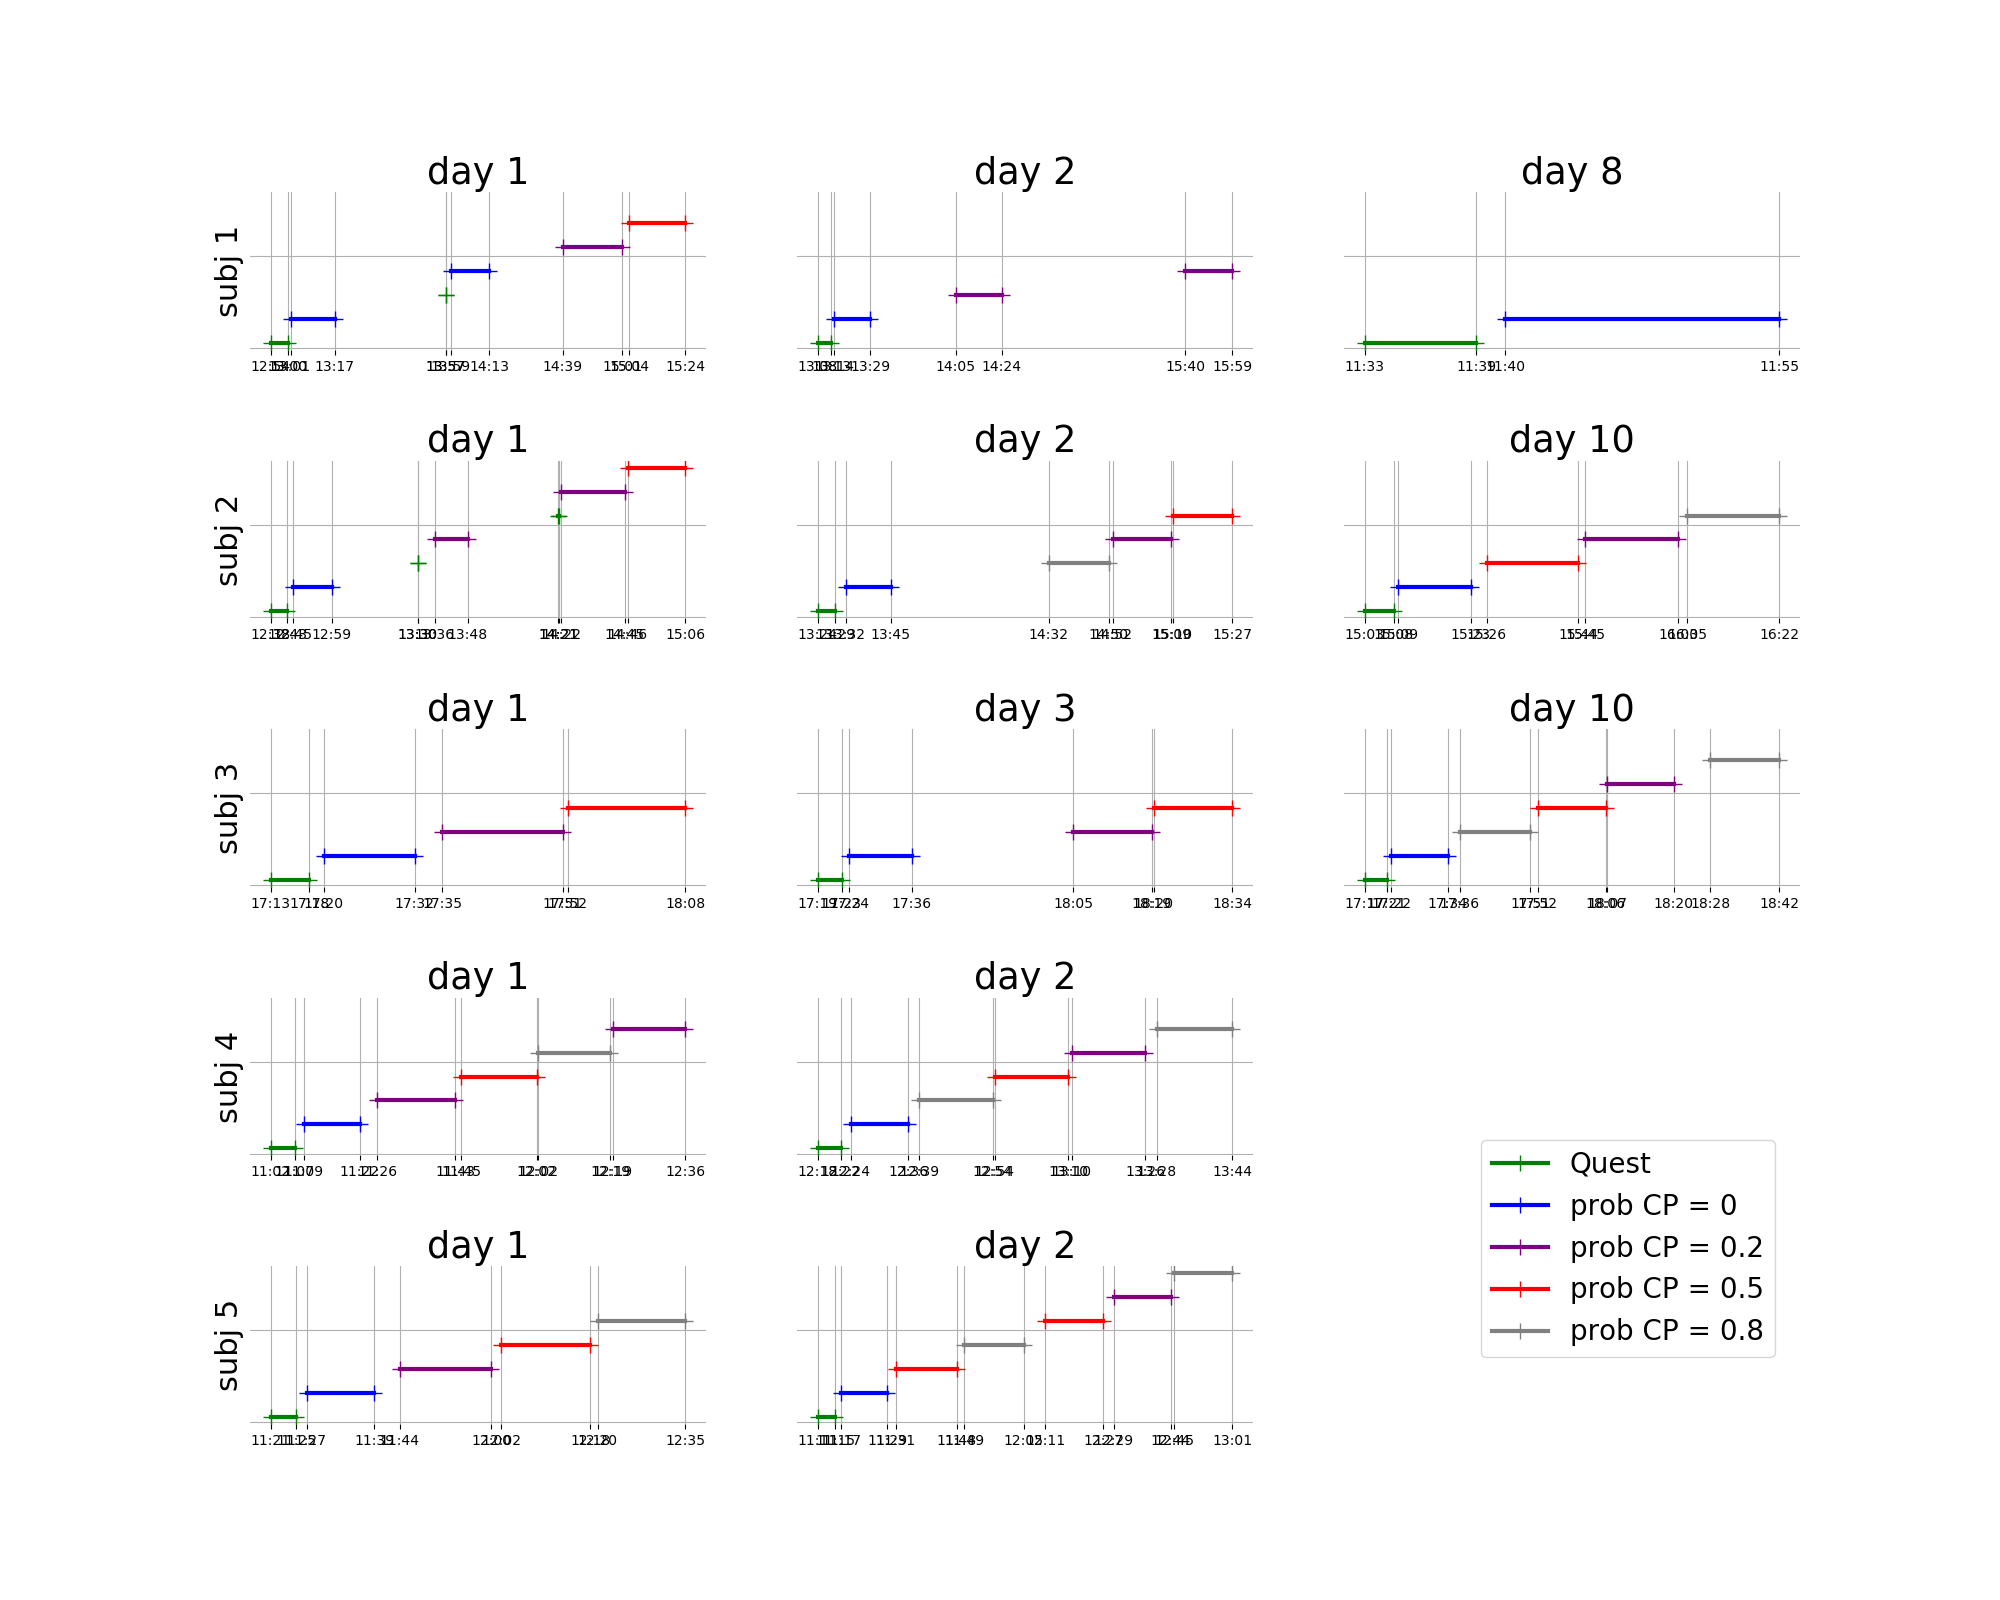
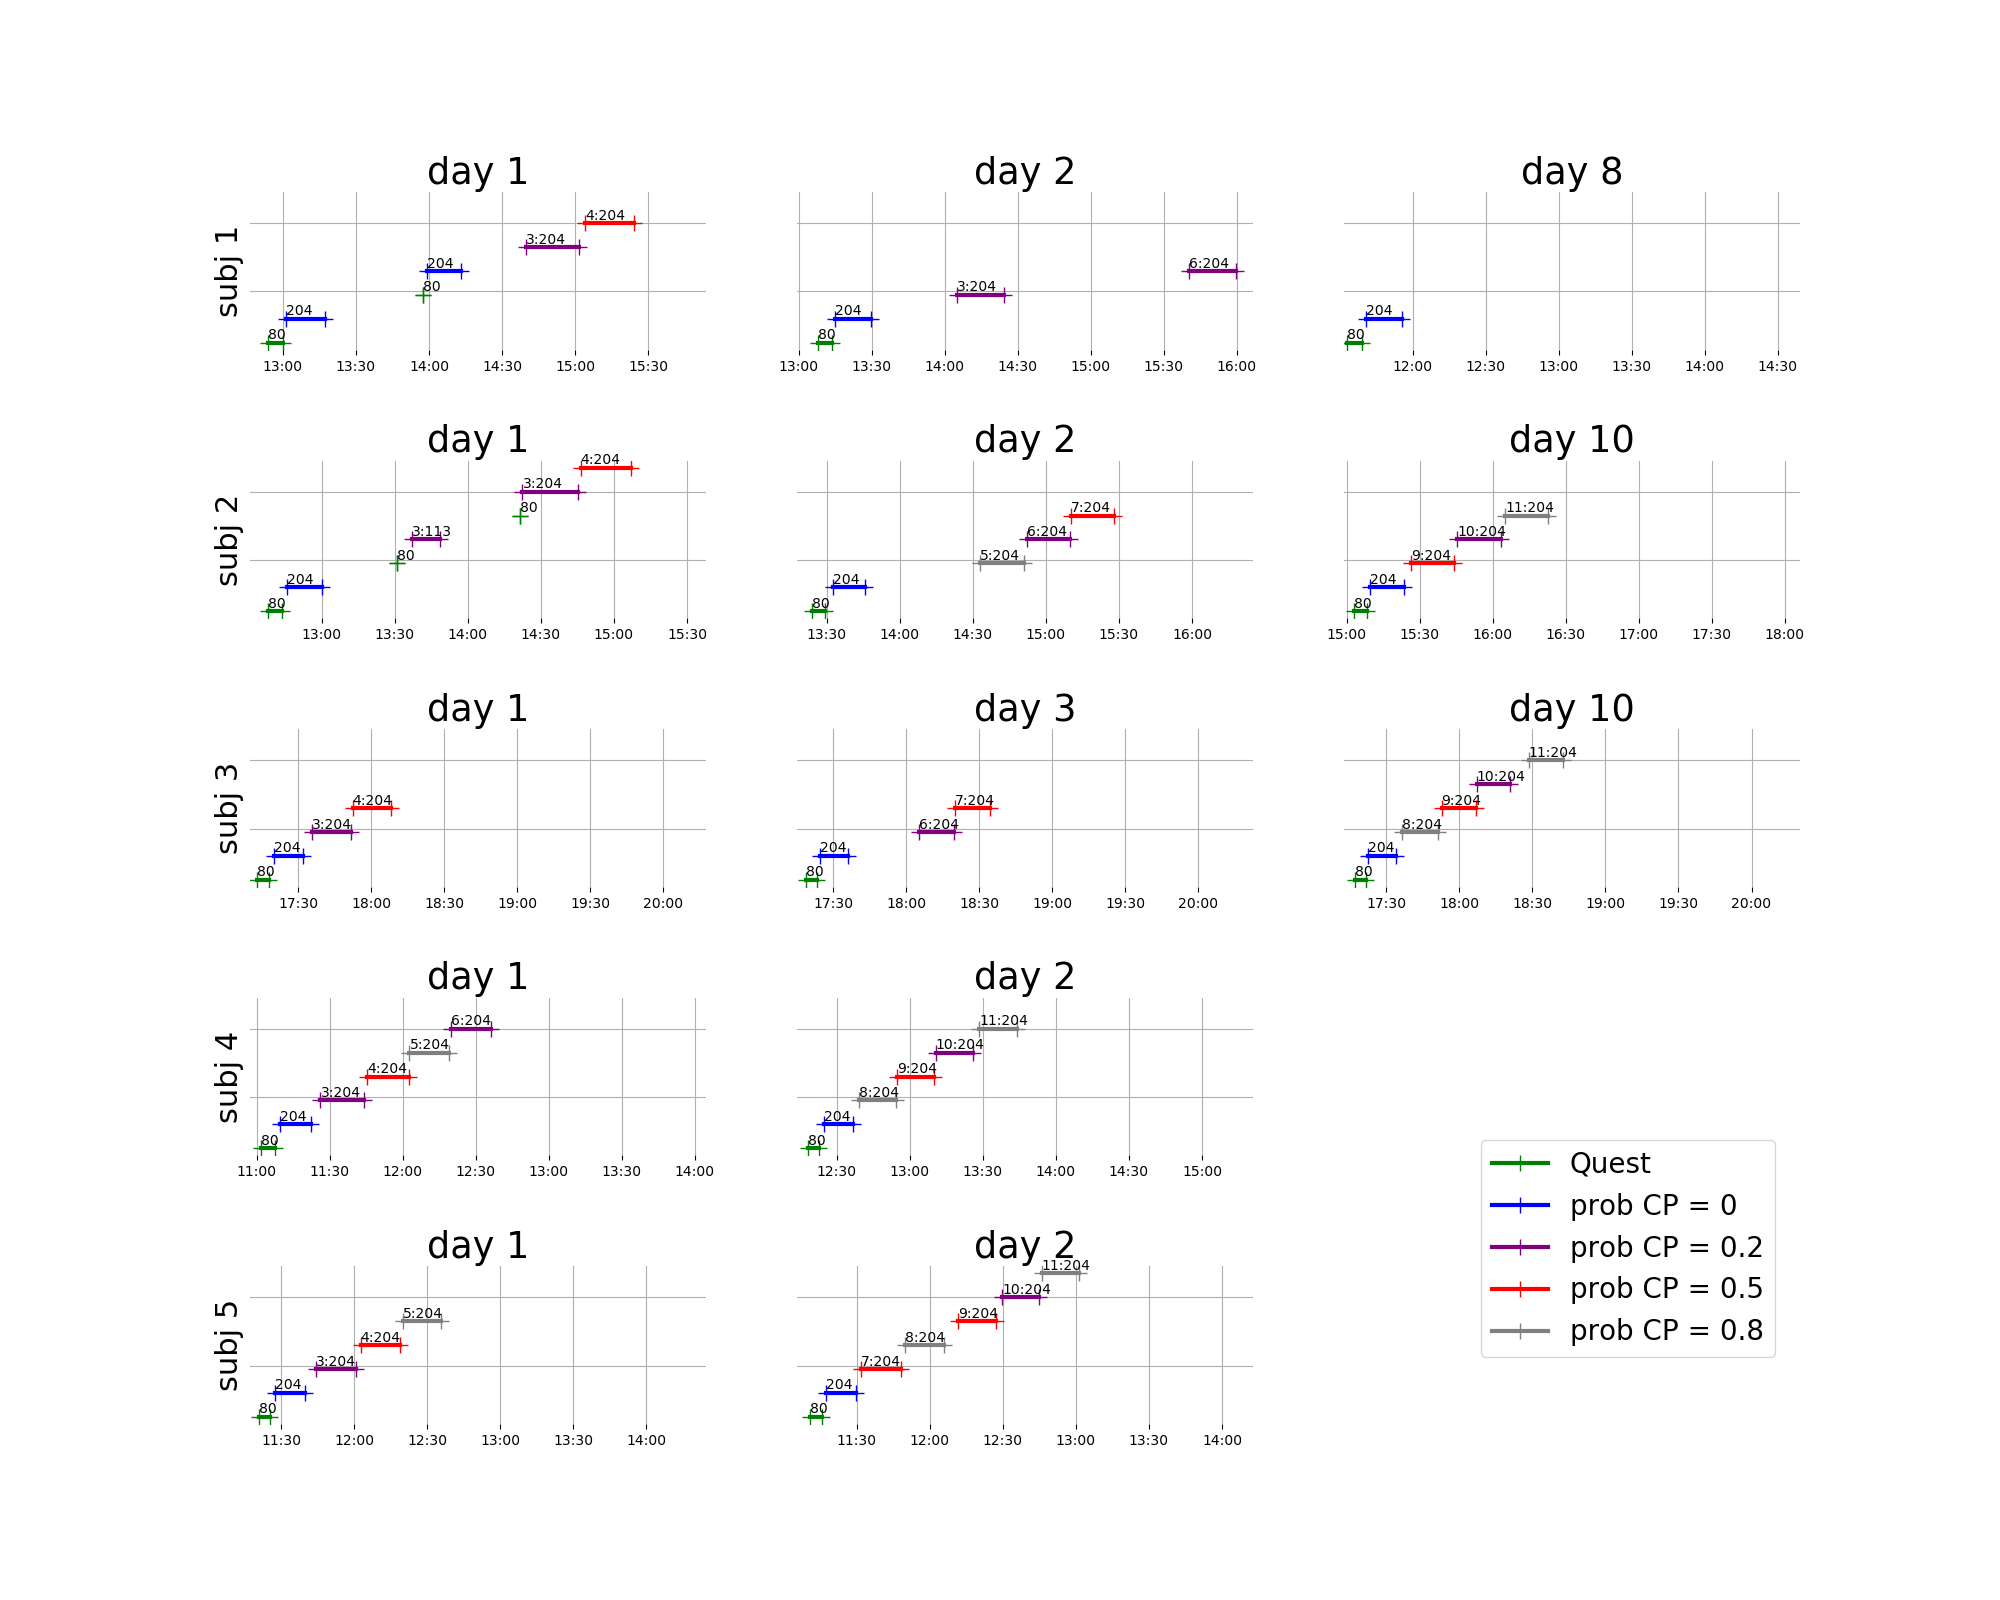
first version of metaplot shared

diff --git a/Python/consistency_checks.py b/Python/consistency_checks.py
@@ -807,7 +807,7 @@ def plot_meta_data(plot_file):
     from pandas.plotting import register_matplotlib_converters
     register_matplotlib_converters()
     import matplotlib.lines as mlines
-
+    import re
     # map probCP to colors
     colors = {
         'Quest': 'green',
@@ -822,7 +822,8 @@ def plot_meta_data(plot_file):
                                    linewidth=LINEWIDTH, color=c,
                                    marker='+', markersize=MARKERSIZE,
                                    label=f'prob CP = {p}' if not isinstance(p, str) else p))
-
+    delta_y = 3.5
+    ddy = 0
     """first we process the metadata"""
 
     max_num_days = 1
@@ -967,24 +968,31 @@ def plot_meta_data(plot_file):
                 if not block['in_meta_not_in_file']:
                     list_of_datetimes = [block['datetime_start'], block['datetime_stop']]
                     all_dates[(scount, day_count)] += list_of_datetimes
-                    dy_dict[(scount, day_count)] += 1.3
+                    dy_dict[(scount, day_count)] += delta_y
                     dy = dy_dict[(scount, day_count)]
                     dates = matplotlib.dates.date2num(list_of_datetimes)
                     curr_ax.plot_date(dates, [dy, dy],
                                       fmt='-+', linewidth=LINEWIDTH, markersize=MARKERSIZE,
                                       color=linecolor, xdate=True)
-
-    print()
-    pprint.pprint(all_dates[(0, 0)])
-    pprint.pprint(matplotlib.dates.date2num(all_dates[(0, 0)]))
-    print()
+                    # annotate block number
+                    bname = block['name']
+                    if bname not in {'Quest', 'Block2'}:
+                        bnum = re.findall('\\d+', bname)[0]
+                        # bnum = bname[-1]
+                        curr_ax.annotate(bnum + ':' + str(block['num_trials']), (dates[0], dy+.5), fontsize=SMALL_FONT)
+                    else:
+                        curr_ax.annotate(str(block['num_trials']), (dates[0], dy+.5), fontsize=SMALL_FONT)
+    # print()
+    # pprint.pprint(all_dates[(0, 0)])
+    # pprint.pprint(matplotlib.dates.date2num(all_dates[(0, 0)]))
+    # print()
+    DX = .13
     for subj in range(num_subjects):
         for dd in range(max_num_days):
+            if (subj, dd) in {(3, 2), (4, 2)}:
+                continue
             curr_ax = axes[subj, dd]
-            curr_ax.set_xticks(matplotlib.dates.date2num(all_dates[(subj, dd)]))
-            curr_ax.set_xticklabels([d.strftime('%H:%M') for d in all_dates[(subj, dd)]],
-                                    fontsize=SMALL_FONT)
-            curr_ax.grid(b=True)
+
             curr_ax.set_title('day ' + str(all_titles[(subj, dd)]))
             if dd == 0:
                 curr_ax.set_ylabel('subj ' + str(subj + 1))
@@ -998,7 +1006,14 @@ def plot_meta_data(plot_file):
             curr_ax.spines['right'].set_visible(False)
             curr_ax.spines['bottom'].set_visible(False)
             curr_ax.spines['left'].set_visible(False)
-
+            orig_y1, orig_y2 = curr_ax.get_ylim()
+            curr_ax.set_ylim(orig_y1, orig_y2 + 2*ddy)
+            orig_x1, orig_x2 = curr_ax.get_xlim()
+            curr_ax.set_xlim(orig_x1, orig_x1 + DX)
+            xticks = [matplotlib.dates.num2date(x) for x in curr_ax.get_xticks()]
+            curr_ax.set_xticklabels([d.strftime('%H:%M') for d in xticks], fontsize=SMALL_FONT)
+            # curr_ax.format_xdata = matplotlib.dates.DateFormatter('%H:%M')
+            curr_ax.grid(b=True)
     fig.delaxes(axes[3, 2])
     fig.delaxes(axes[4, 2])
     plt.legend(handles=lines, bbox_to_anchor=(1.5, 1.8), loc=2, borderaxespad=0., fontsize=2*SMALL_FONT)
